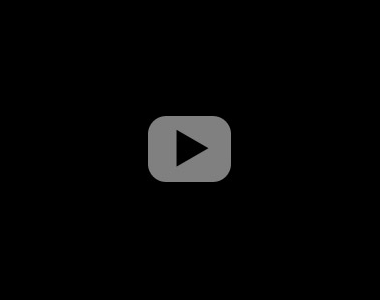
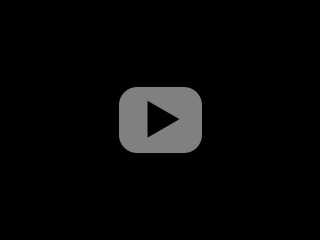
corrections

Changed region(s): [[0.375, 0.35, 0.6562, 0.6417]]

diff --git a/templates/videobox.html b/templates/videobox.html
@@ -1,4 +1,4 @@
-<object type="application/x-shockwave-flash" data="{{ web_url }}/media/swf/FlowPlayerBlack.swf" width="380" height="300" id="FlowPlayer">
+<object type="application/x-shockwave-flash" data="{{ web_url }}/media/swf/FlowPlayerBlack.swf" width="320" height="240" id="FlowPlayer">
     <param name="allowScriptAccess" value="sameDomain" />
     <param name="movie" value="{{ web_url }}/media/swf/FlowPlayerBlack.swf" />
     <param name="quality" value="high" />
